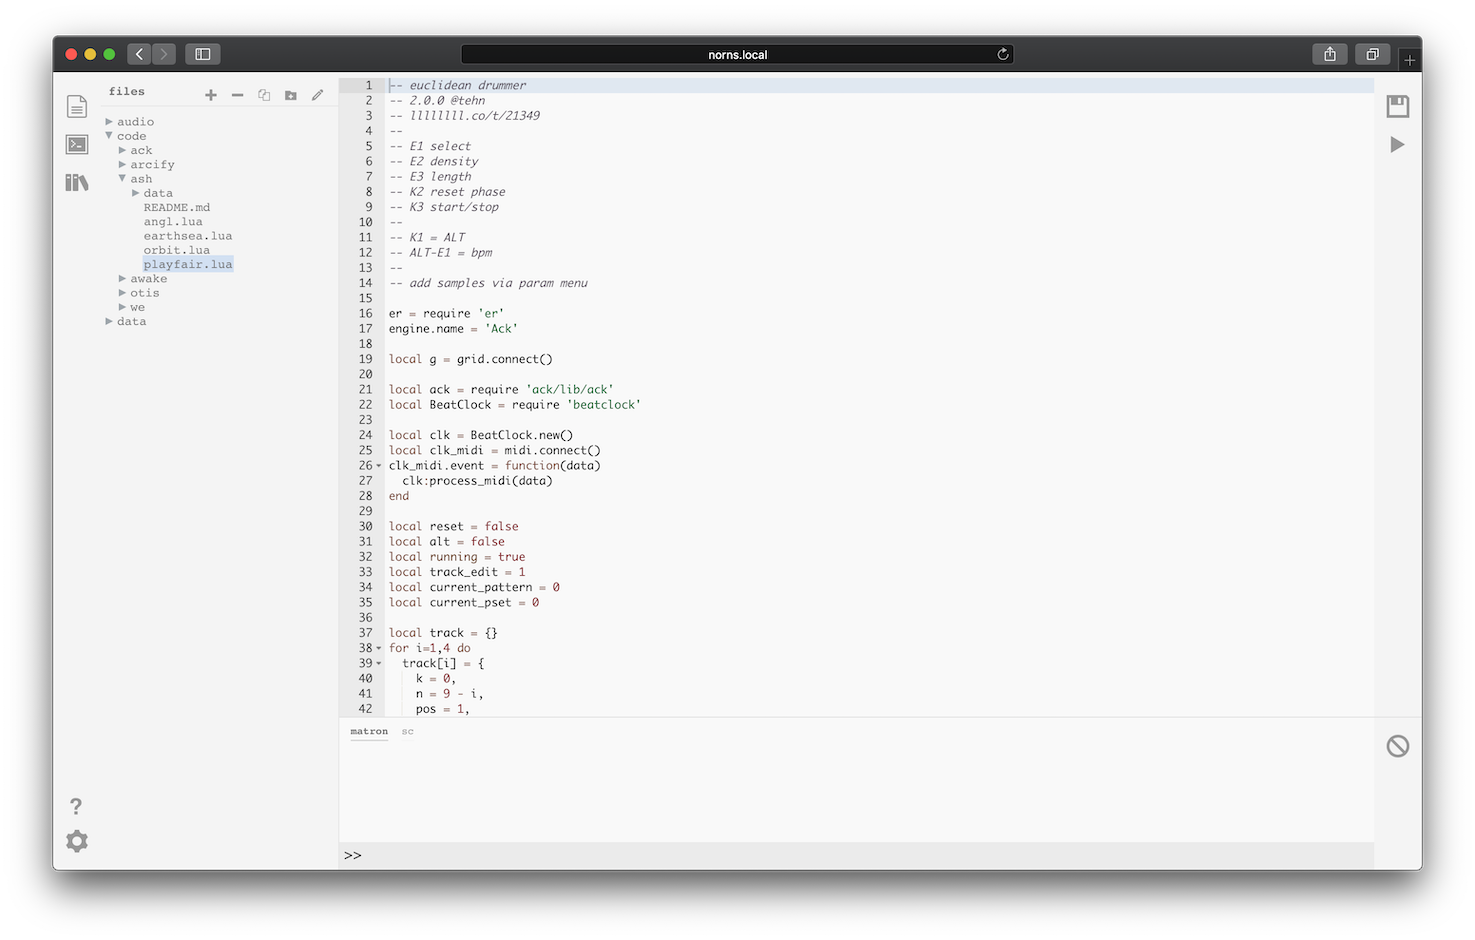
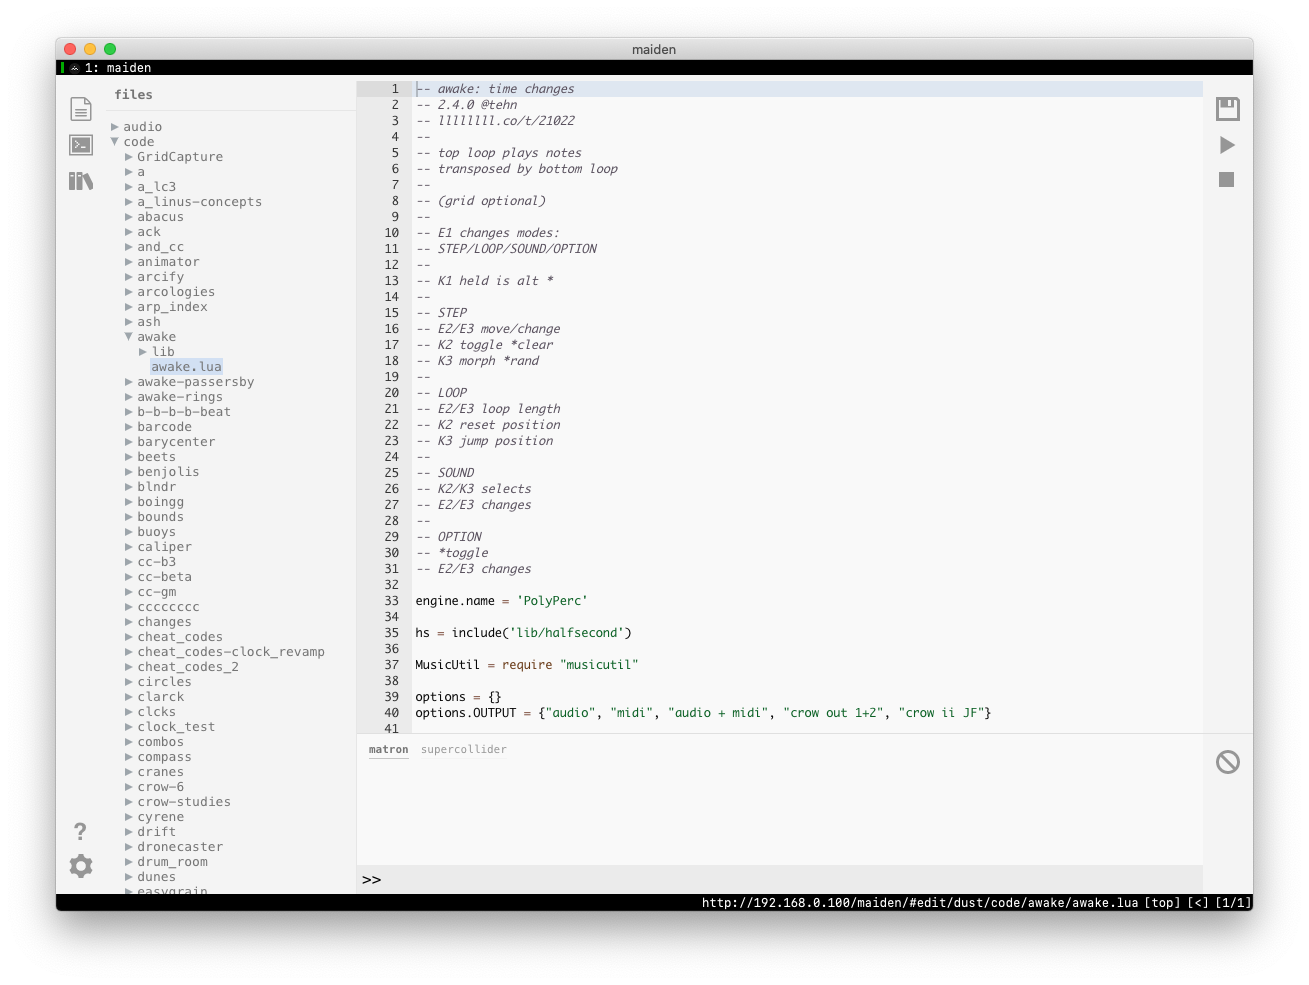
update maiden docs for 1.1.0
- changed screenshots
- added additional text for new features

diff --git a/norns/maiden.md b/norns/maiden.md
@@ -13,9 +13,9 @@ sections: [project manager](#project-manager) &mdash; [repl](#repl) &mdash; [fil
 
 _maiden_ is a browser-based portal for norns. It can be accessed via a norns-hosted hotspot, or if norns and your browser are on the same WIFI network.
 
-To dive in, point your web browser at `norns.local` to see the maiden interface. If the site is not found, try connecting directly to the IP address shown on the norns screen, for example: `192.168.1.30`.
+To dive in, point your web browser at `norns.local` to see the maiden interface. If the site is not found, try connecting directly to the IP address shown on the norns screen, for example: `192.168.0.100`.
 
-![](image/maiden-1.0.png)
+![](image/maiden-1.1.0.png)
 
 The interface includes a meta-navigator in the far-left sidebar, which from bottom-to-top allows you to:
 
@@ -29,9 +29,7 @@ Let's start with the *project manager*, so we can download some new community sc
 
 maiden features a project manager to help you discover and download new projects. Projects contain both engines and scripts.
 
-You can access both the *base* (projects from monome) and *community* (projects from other artists) repositories via the books icon in the left-sidebar:
-
-![](image/maiden-available.png)
+You can access both the *base* (projects from monome) and *community* (projects from other artists) repositories via the books icon in the left-sidebar.
 
 ### installed
 
@@ -39,9 +37,9 @@ This tab shows which projects are currently installed on your norns.
 
 ![](image/maiden-installed.png)
 
-Each entry has two actions: **UPDATE** and **REMOVE**.
+Each entry has two actions: **update** and **remove**.
 
-If you choose to update a project that currently lives on your norns, please note that local modifications you have made will be overwritten. If you wish to retain multiple versions of a project, please reference the [SFTP](../sftp/) guide.
+If you choose to update a project which you downloaded through maiden, please note that local modifications you have made will be overwritten. If you wish to retain multiple versions of a project, please reference the [SFTP](../sftp/) guide.
 
 Once you update a project through the PROJECT MANAGER, you'll see a commit number listed on the right of the project's tile (like *34d225b*). Click a project's commit number to be brought to the project's GitHub page, where you can learn more about the project and verify that the version you have is the latest.
 
@@ -51,15 +49,11 @@ Once you update a project through the PROJECT MANAGER, you'll see a commit numbe
 
 This tab shows which projects are available through the *base* and *community* repositories.
 
-**Use the refresh button next to each header to update the catalog and pull in the latest versions.** Using the refresh action on each catalog is the only way to download them as they do not yet auto-update:
-
-![](image/maiden-update-catalog.png)
+Whenever maiden is loaded, it automatically refreshes both catalogs. If a script is released after you've loaded maiden, just press the `refresh all` button at the top of the page and all new entries will be added.![](image/maiden-available.png)
 
 Many projects will have informational tags like **crow**, **drum**, **looper**, as well as a project description. Please note that the **lib** tag is specifically used to indicate that a project includes both a script *and* an engine, which will require a device restart.
 
 Each entry has an **INSTALL** action, which can be used to install the selected script.
-
-If you have already installed a project and attempt to install it again, you will receive an error message letting you know that the project is already installed in your `code` folder.
 
 ### contribute
 
@@ -129,28 +123,26 @@ Sometimes, scripts don't make it into the community repo. To fetch a script that
 - in maiden's repl, enter:
 
 ```lua
-norns.fetch("https://github.com/tehn/test-update")
+;install https://github.com/tehn/test-update
 ```
 
 If the fetch was successful, you'll see:
 
 ```lua
-Cloning into 'test-update'...
-fetch: success. you may need to SYSTEM > RESET if the new project contains an engine
+starting...
+installed "test-update"!
 ```
+
+*nb. you may need to SYSTEM > RESET if the new project contains an engine*
 
 If the fetch was unsuccessful, the cause is that a script is already installed with the same name. You'll see:
 
 ```lua
-fatal: destination path 'test-update' already exists and is not an empty directory.
-fetch: FAIL
+starting...
+install failed: project test-update already exists in /home/we/dust/code
 ```
 
-In which case, you just need to remove the redundant script and re-fetch:
-
-```lua
-os.execute("rm -rf /home/dust/code/test-update")
-```
+In which case, you just need to remove the redundant script and re-fetch.
 
 ## file viewer
 
@@ -168,9 +160,17 @@ The `>`'s can be expanded to reveal a file tree. When you select a file, it will
 
 This is where you can edit the selected script.
 
-To the right there is a bar with two icons: disk is **SAVE** and **PLAY** will run the current script.
+To the right there is a bar with three icons: disk is **SAVE**, **PLAY** will run the current script, **STOP** will stop and clear the currently running script.
 
-The editor can be configured for various modes (default, vim, emacs) in addition to tab size and light/dark mode. Click the gear icon at the bottom left of the screen.
+These actions are bound to the following keyboard shortcuts:
+
+- CMD/CTRL-`S` : save
+
+- CMD/CTRL-`P` : play
+
+- CMD/CTRL-`.` : stop
+
+The editor can be configured for various modes (default, vim, emacs) in addition to tab size and light/dark mode. Click the gear icon at the bottom left of the screen. For more about maiden's keybindings, [see the docs in the maiden repository](https://github.com/monome/maiden/blob/main/docs/keybindings.md).
 
 ### programming reference
 
@@ -182,6 +182,14 @@ Also see the [scripting reference](../reference/).
 
 ## advanced access
 
+### terminal REPL
+
+To access maiden's REPL from a terminal session, SSH or screen into norns and execute:
+
+```lua
+maiden repl
+```
+
 ### Command Line Interface
 
 Nearly all of the project management operations exposed in the maiden web UI can be accomplished on the Command Line Interface (CLI).
@@ -192,6 +200,25 @@ To access:
 ssh we@norns.local
 ...
 maiden/maiden
+web editor for norns scripts
+
+Usage:
+  maiden [command]
+
+Available Commands:
+  catalog     manage the script catalog
+  help        Help about any command
+  project     manage dust projects
+  repl        matron/crone repl
+  server      run the backend server for maiden
+  version     print maiden version
+
+Flags:
+      --config string   use specific config file
+      --debug           enable debug logging
+  -h, --help            help for maiden
+
+Use "maiden [command] --help" for more information about a command.
 ```
 
 The maiden backend server also has sub-commands:
@@ -239,7 +266,7 @@ Available Commands:
   list        list installed script/project(s)
   push        push a git based project
   remove      remove a project dir
-  update      install a script/project
+  update      update a script/project
 
 Flags:
   -h, --help   help for project
@@ -248,7 +275,5 @@ Global Flags:
       --config string   use specific config file
       --debug           enable debug logging
 
-Use "maiden project [command] --help" for more information about a command.
+Use "maiden project [command] --help" for more information about a command.Have further usage questions? Visit the [norns: maiden](https://llllllll.co/t/norns-maiden/14052) topic on lines.
 ```
-
-Have further usage questions? Visit the [norns: maiden](https://llllllll.co/t/norns-maiden/14052) topic on lines.
